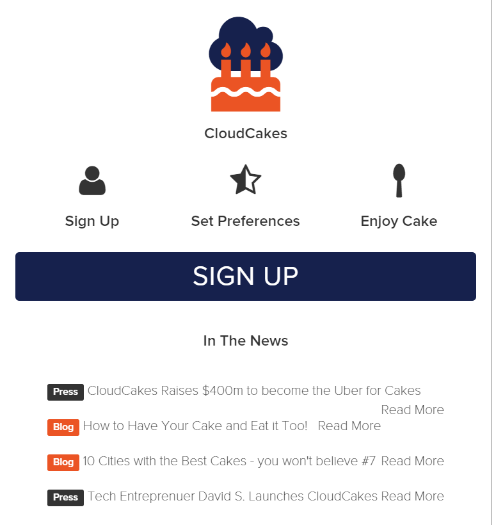
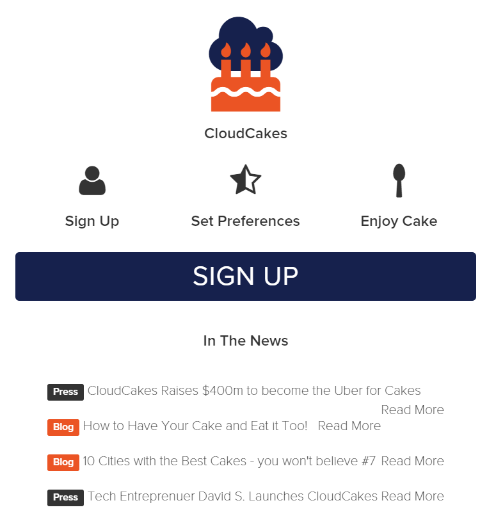
* Update img and readme

diff --git a/README.md b/README.md
@@ -21,4 +21,6 @@ In order to run the example you need to just start a server. What we suggest is 
 
 Go to [http://localhost:3000](http://localhost:3000) and you'll see the app running :).
 
-![CloudCakes App](https://raw.githubusercontent.com/kukicadnan/CloudCakes/master/img/cloud-cakes-app.png)
+<p align="center">
+  <img src="https://raw.githubusercontent.com/kukicadnan/CloudCakes/master/img/cloud-cakes-app.png" alt="CloudCakes App"/>
+</p>
